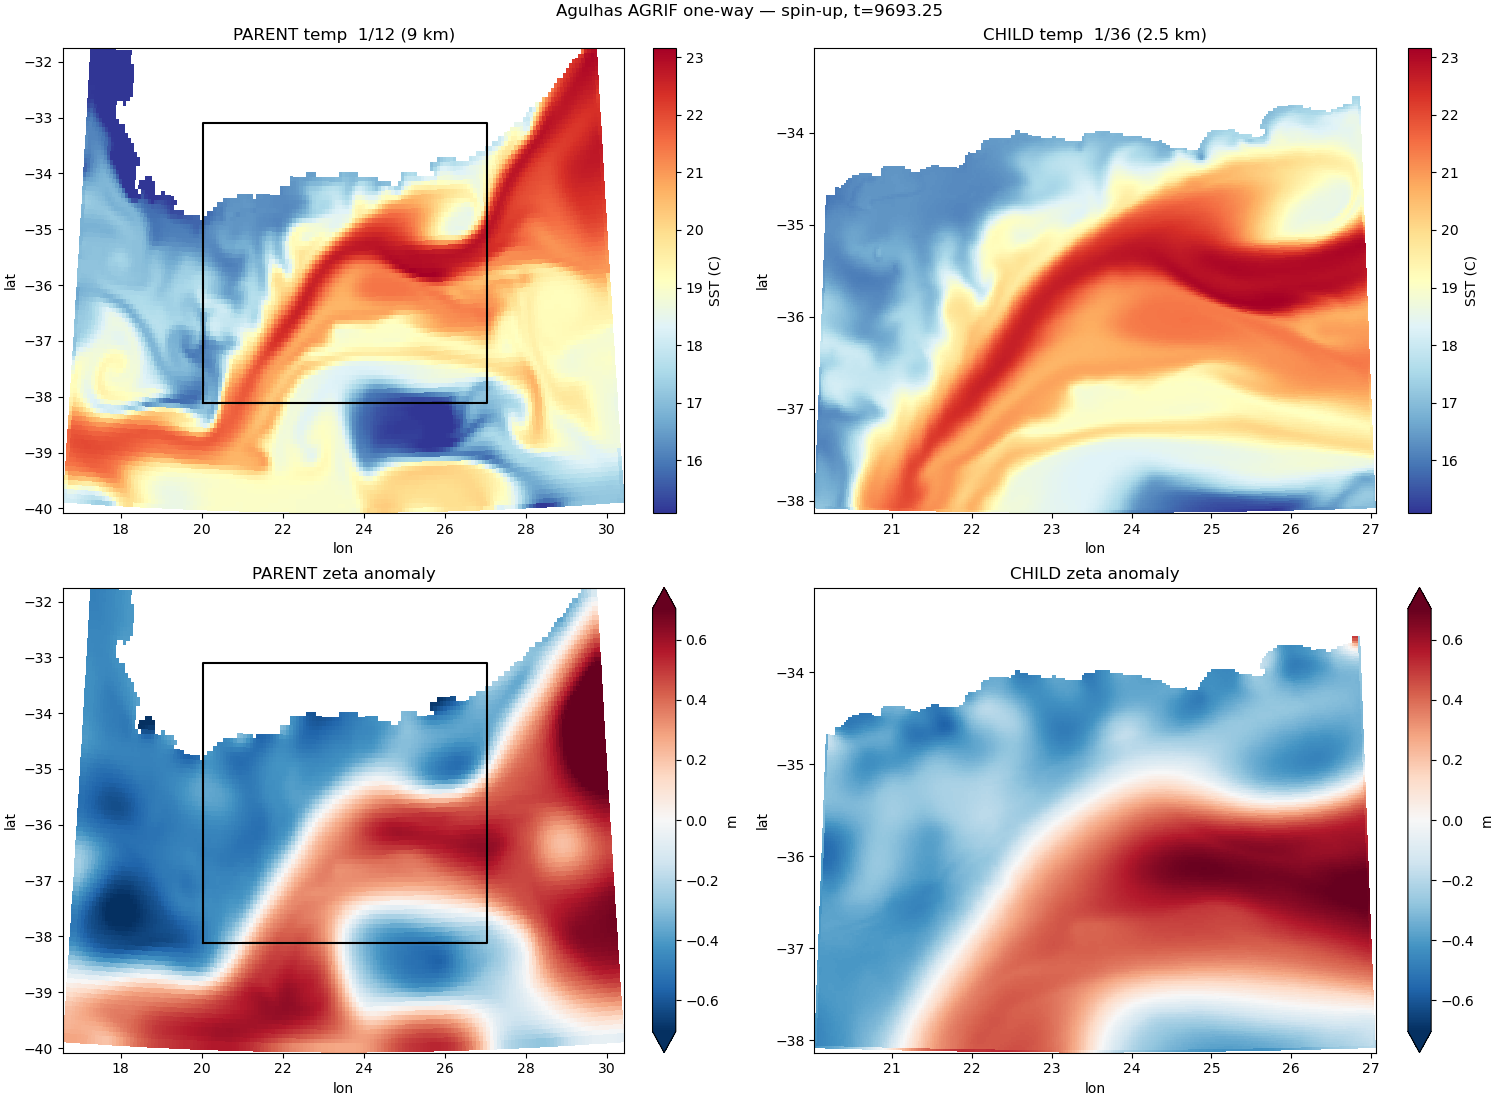
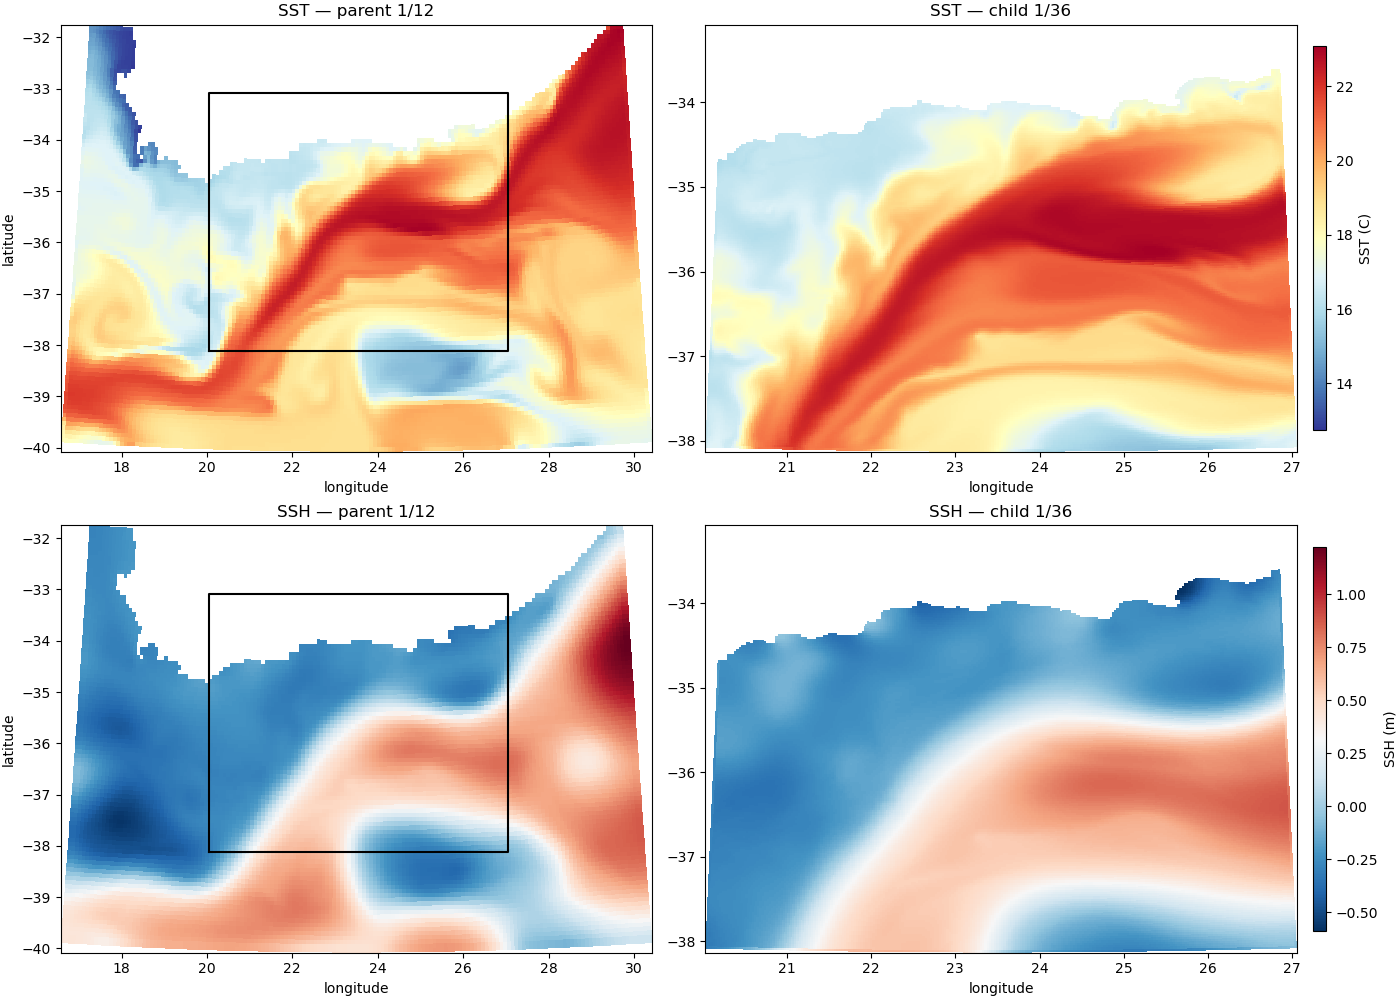
docs: Phase 9 checking — shared colour scales, plain SSH, tighter conclusions

diff --git a/docs/phase9/checking.md b/docs/phase9/checking.md
@@ -3,50 +3,88 @@ Once the driver's spin-up is producing output, the same comparison as A13 — bu
 
 ## Parent and child, side by side
 
-Copy the files first: reading a netCDF that CROCO is still writing gives you truncated
-records.
+Copy the files first if the run is still going — reading a netCDF mid-write can give
+you a truncated last record.
 
 ```bash
 D=~/seaforward/forecast/model-runs/Agulhas_AGRIF/20260717_1way/spinup/CROCO_FILES
 cp $D/croco_his.nc   /tmp/ag_p.nc
 cp $D/croco_his.nc.1 /tmp/ag_c.nc
 
-python3 -c "
+python3 << 'PYEOF'
 import xarray as xr
-for f,l in [('/tmp/ag_p.nc','parent'),('/tmp/ag_c.nc','child ')]:
+for f, l in [('/tmp/ag_p.nc', 'parent'), ('/tmp/ag_c.nc', 'child ')]:
     d = xr.open_dataset(f, decode_times=False)
     print(l, d.sizes['time'], 'records, t =',
-          [round(float(t)/86400,3) for t in d.scrum_time.values])
-"
+          [round(float(t)/86400, 3) for t in d.scrum_time.values])
+PYEOF
 ```
-```
+
+```text
 parent 6 records, t = [9692.0, 9692.25, 9692.5, 9692.75, 9693.0, 9693.25]
 child  6 records, t = [9692.0, 9692.25, 9692.5, 9692.75, 9693.0, 9693.25]
 ```
 
 **Six records each, at identical times.** That is the driver's `NWRT * COEF` scaling
-working. Without it you get 5 parent records and 13 child records for the same period,
-and every comparison needs interpolating.
+working. Without it the child writes three times as often as the parent, and every
+comparison needs interpolating.
+
+```bash
+cd ~/seaforward
+python3 << 'PYEOF'
+import matplotlib; matplotlib.use('Agg')
+import matplotlib.pyplot as plt, xarray as xr, numpy as np
+
+p = xr.open_dataset('/tmp/ag_p.nc', decode_times=False)
+c = xr.open_dataset('/tmp/ag_c.nc', decode_times=False)
+x0, x1 = float(c.lon_rho.min()), float(c.lon_rho.max())
+y0, y1 = float(c.lat_rho.min()), float(c.lat_rho.max())
+
+def fld(ds, v):
+    f = (ds.temp.isel(time=-1, s_rho=-1) if v == 'temp' else ds.zeta.isel(time=-1))
+    return f.where(ds.mask_rho == 1)
+
+fig, ax = plt.subplots(2, 2, figsize=(14, 10), constrained_layout=True)
+fig.get_layout_engine().set(w_pad=0.02, wspace=0.02)
+
+for row, (v, cmap, unit) in enumerate([('temp', 'RdYlBu_r', 'SST (C)'),
+                                       ('zeta', 'RdBu_r',   'SSH (m)')]):
+    fp, fc = fld(p, v), fld(c, v)
+    vmin = min(float(fp.min()), float(fc.min()))     # shared scale across the row
+    vmax = max(float(fp.max()), float(fc.max()))
+    for col, (ds, f, tag) in enumerate([(p, fp, 'parent 1/12'), (c, fc, 'child 1/36')]):
+        h = ax[row, col].pcolormesh(ds.lon_rho, ds.lat_rho, f,
+                                    cmap=cmap, vmin=vmin, vmax=vmax)
+        ax[row, col].set_title('%s — %s' % (unit.split()[0], tag))
+        ax[row, col].set_xlabel('longitude')
+    ax[row, 0].set_ylabel('latitude')
+    ax[row, 0].plot([x0, x1, x1, x0, x0], [y0, y0, y1, y1, y0], 'k-', lw=1.5)
+    fig.colorbar(h, ax=ax[row, :], label=unit, shrink=0.9, pad=0.01, aspect=30)
+
+fig.savefig('docs/img/agulhas_parent_child.png', dpi=100)
+PYEOF
+```
 
 ![Agulhas parent and child](../img/agulhas_parent_child.png)
 
-*Surface temperature and sea-surface height anomaly, both grids, 1.25 days into the spin-up. The box on the parent panels is the child's footprint.*
+*Surface temperature and sea-surface height, both grids, 1.25 days into the spin-up.
+The box on the parent panels is the child's footprint. Each row shares a colour scale,
+so the two panels are directly comparable.*
 
 Two things to read here:
-
 **Temperature** — same water masses, but the child resolves filaments the parent
 smooths: the frontal structure at 21–22°E, and the retroflection eddy at 25.5°E, 35°S.
 That is 2.5 km against 9 km, doing what it was built for.
 
 **Sea-surface height** — this is the one that tells you the nest is healthy. The zeta
-anomaly is a **smooth, coherent tongue following exactly where the warm current is**,
+field is a **smooth, coherent tongue following exactly where the warm current is**,
 high on the warm side, low on the cold side. That is the Agulhas in thermal-wind
 balance: a geostrophic jet tilts the sea surface across itself. **And the child matches
 the parent through the overlap** — same tongue, same position, same magnitude.
 
-Compare that against a nest that *isn't* healthy (Phase 8, worked example 2): blotchy
-±0.5 m lobes, no coherent structure, child disagreeing with parent in the same place.
-Zeta is where a bad nest confesses.
+A nest that isn't healthy looks quite different: blotchy ±0.5 m lobes, no coherent
+structure, child disagreeing with parent in the same place. Zeta is where a bad nest
+confesses.
 
 ## Against Mercator — and how to do it fairly
 
@@ -65,7 +103,7 @@ p = xr.open_dataset('/tmp/ag_p.nc', decode_times=False)
 c = xr.open_dataset('/tmp/ag_c.nc', decode_times=False)
 
 # nearest Mercator record -- find it, don't hardcode it
-t  = pd.Timestamp('%d-01-01'%YORIG) + pd.Timedelta(days=float(p.scrum_time[-1])/86400)
+t  = pd.Timestamp('%d-01-01' % YORIG) + pd.Timedelta(days=float(p.scrum_time[-1])/86400)
 dt = np.abs(m.time.values - np.datetime64(t)); k = int(dt.argmin())
 print('croco t = %s -> mercator idx %d (%s), offset %s' % (t, k, m.time.values[k], dt[k]))
 
@@ -74,12 +112,12 @@ zos_m = m.zos.isel(time=k)
 
 def cmp(ds, var, src, name):
     lo, la = ds.lon_rho.values, ds.lat_rho.values
-    f = (ds.temp.isel(time=-1, s_rho=-1) if var=='temp' else ds.zeta.isel(time=-1))
-    f = f.where(ds.mask_rho==1).values
-    mi = src.interp(longitude=xr.DataArray(lo,dims=['eta','xi']),
-                    latitude =xr.DataArray(la,dims=['eta','xi'])).values
-    mi = np.where(ds.mask_rho.values==1, mi, np.nan)
-    if var=='zeta':                  # CROCO zeta and Mercator zos have DIFFERENT
+    f = (ds.temp.isel(time=-1, s_rho=-1) if var == 'temp' else ds.zeta.isel(time=-1))
+    f = f.where(ds.mask_rho == 1).values
+    mi = src.interp(longitude=xr.DataArray(lo, dims=['eta','xi']),
+                    latitude =xr.DataArray(la, dims=['eta','xi'])).values
+    mi = np.where(ds.mask_rho.values == 1, mi, np.nan)
+    if var == 'zeta':                # CROCO zeta and Mercator zos have DIFFERENT
         f  = f  - np.nanmean(f)      # reference levels. Compare anomalies, or you
         mi = mi - np.nanmean(mi)     # are just measuring a constant offset.
     d = f - mi
@@ -89,21 +127,22 @@ def cmp(ds, var, src, name):
     return lo, la, f, mi, d, r
 
 for var, cmap, unit in [('temp','RdYlBu_r','SST (C)'), ('zeta','RdBu_r','SSH anom (m)')]:
-    src = sst_m if var=='temp' else zos_m
+    src = sst_m if var == 'temp' else zos_m
     P = cmp(p, var, src, 'parent'); C = cmp(c, var, src, 'child')
     vmin = min(np.nanmin(P[2]), np.nanmin(C[2])); vmax = max(np.nanmax(P[2]), np.nanmax(C[2]))
     ld = float(np.nanpercentile(np.abs(np.concatenate([P[4].ravel(), C[4].ravel()])), 99))
-    fig, ax = plt.subplots(2,3, figsize=(18,10), constrained_layout=True)
-    for row,(S,tag) in enumerate([(P,'PARENT 1/12'),(C,'CHILD 1/36')]):
-        lo,la,f,mi,d,r = S
-        a=ax[row,0].pcolormesh(lo,la,f, cmap=cmap,vmin=vmin,vmax=vmax)
-        ax[row,0].set_title('CROCO %s'%tag);  fig.colorbar(a,ax=ax[row,0],label=unit)
-        b=ax[row,1].pcolormesh(lo,la,mi,cmap=cmap,vmin=vmin,vmax=vmax)
-        ax[row,1].set_title('MERCATOR');      fig.colorbar(b,ax=ax[row,1],label=unit)
-        e=ax[row,2].pcolormesh(lo,la,d, cmap='PuOr_r',vmin=-ld,vmax=ld)
-        ax[row,2].set_title('minus MERCATOR  RMSE=%.4f'%r)
-        fig.colorbar(e,ax=ax[row,2],label=unit,extend='both')
-    for x in ax.ravel(): x.set_xlabel('lon'); x.set_ylabel('lat')
+    fig, ax = plt.subplots(2, 3, figsize=(18, 10), constrained_layout=True)
+    for row, (S, tag) in enumerate([(P, 'PARENT 1/12'), (C, 'CHILD 1/36')]):
+        lo, la, f, mi, d, r = S
+        a = ax[row,0].pcolormesh(lo, la, f, cmap=cmap, vmin=vmin, vmax=vmax)
+        ax[row,0].set_title('CROCO %s' % tag);  fig.colorbar(a, ax=ax[row,0], label=unit)
+        b = ax[row,1].pcolormesh(lo, la, mi, cmap=cmap, vmin=vmin, vmax=vmax)
+        ax[row,1].set_title('MERCATOR');        fig.colorbar(b, ax=ax[row,1], label=unit)
+        e = ax[row,2].pcolormesh(lo, la, d, cmap='PuOr_r', vmin=-ld, vmax=ld)
+        ax[row,2].set_title('minus MERCATOR  RMSE=%.4f' % r)
+        fig.colorbar(e, ax=ax[row,2], label=unit, extend='both')
+    for x in ax.ravel():
+        x.set_xlabel('lon'); x.set_ylabel('lat')
     fig.suptitle('Agulhas AGRIF %s vs Mercator  %s' % (var, t.date()))
     fig.savefig('docs/img/agulhas_agrif_%s_vs_merc.png' % var, dpi=100)
 PYEOF
@@ -112,30 +151,36 @@ PYEOF
 Note the printed offset: CROCO's last record is at **06:00** and Mercator is daily at
 **00:00**, so there is a 6-hour gap. Small, but state it rather than hide it.
 
+Note also the mean subtraction on `zeta`. CROCO's sea surface is measured from the
+model's own reference level and Mercator's from a different one, so comparing them
+directly measures a constant offset. Removing each field's mean compares the structure,
+which is what matters.
+
 ![Agulhas AGRIF temperature vs Mercator](../img/agulhas_agrif_temp_vs_merc.png)
 
 *Both grids against Mercator, surface temperature.*
 
-```
+```text
 parent RMSE = 0.2443     child RMSE = 0.2233
 ```
 
 The differences are **thin filaments tracing fronts**, not patches — front displacement,
-not magnitude error. Both panels run slightly **cool** (predominantly purple, ~0.1–0.2 °C),
-worth watching across the forecast but unremarkable 1.5 days into a spin-up.
+not magnitude error. Both panels run slightly **cool**, predominantly purple at about
+0.1–0.2 °C, worth watching across the forecast but unremarkable 1.5 days into a
+spin-up.
 
 ![Agulhas AGRIF SSH vs Mercator](../img/agulhas_agrif_zeta_vs_merc.png)
 
 *Both grids against Mercator, sea-surface height anomaly.*
 
-```
+```text
 parent RMSE = 0.0521     child RMSE = 0.0677
 ```
 
-### ⚠ Those numbers are not comparable, and the trap is worth understanding
+### Those numbers are not comparable, and the trap is worth understanding
 
-Read as-is, they say the child wins on temperature and loses on SSH. **Both readings are
-wrong**, because the two RMSEs are computed over **different water**.
+Read as they stand, they say the child wins on temperature and loses on SSH. **Both
+readings are wrong**, because the two RMSEs are computed over **different water**.
 
 The parent's covers the whole 17–30°E domain — mostly deep open ocean, where everything
 agrees. The child's covers only the Agulhas Bank: shallow shelf, steep break, the
@@ -156,24 +201,26 @@ c = xr.open_dataset('/tmp/ag_c.nc', decode_times=False)
 t = pd.Timestamp('2000-01-01') + pd.Timedelta(days=float(p.scrum_time[-1])/86400)
 k = int(np.abs(m.time.values - np.datetime64(t)).argmin())
 
-lo0,lo1 = float(c.lon_rho.min()), float(c.lon_rho.max())
-la0,la1 = float(c.lat_rho.min()), float(c.lat_rho.max())
+lo0, lo1 = float(c.lon_rho.min()), float(c.lon_rho.max())
+la0, la1 = float(c.lat_rho.min()), float(c.lat_rho.max())
 
 def rmse(ds, var, src, mask=None):
     lo, la = ds.lon_rho.values, ds.lat_rho.values
-    f = (ds.temp.isel(time=-1,s_rho=-1) if var=='temp' else ds.zeta.isel(time=-1))
-    f = f.where(ds.mask_rho==1).values
-    mi = src.interp(longitude=xr.DataArray(lo,dims=['eta','xi']),
-                    latitude =xr.DataArray(la,dims=['eta','xi'])).values
-    mi = np.where(ds.mask_rho.values==1, mi, np.nan)
-    if mask is not None: f = np.where(mask, f, np.nan); mi = np.where(mask, mi, np.nan)
-    if var=='zeta': f = f - np.nanmean(f); mi = mi - np.nanmean(mi)
-    return float(np.sqrt(np.nanmean((f-mi)**2)))
+    f = (ds.temp.isel(time=-1, s_rho=-1) if var == 'temp' else ds.zeta.isel(time=-1))
+    f = f.where(ds.mask_rho == 1).values
+    mi = src.interp(longitude=xr.DataArray(lo, dims=['eta','xi']),
+                    latitude =xr.DataArray(la, dims=['eta','xi'])).values
+    mi = np.where(ds.mask_rho.values == 1, mi, np.nan)
+    if mask is not None:
+        f = np.where(mask, f, np.nan); mi = np.where(mask, mi, np.nan)
+    if var == 'zeta':
+        f = f - np.nanmean(f); mi = mi - np.nanmean(mi)
+    return float(np.sqrt(np.nanmean((f - mi)**2)))
 
-inbox = ((p.lon_rho.values>=lo0)&(p.lon_rho.values<=lo1)&
-         (p.lat_rho.values>=la0)&(p.lat_rho.values<=la1))
+inbox = ((p.lon_rho.values >= lo0) & (p.lon_rho.values <= lo1) &
+         (p.lat_rho.values >= la0) & (p.lat_rho.values <= la1))
 print('parent cells inside the child box:', int(inbox.sum()))
-for var, src in [('temp', m.thetao.isel(time=k,depth=0)), ('zeta', m.zos.isel(time=k))]:
+for var, src in [('temp', m.thetao.isel(time=k, depth=0)), ('zeta', m.zos.isel(time=k))]:
     print('\n%s' % var.upper())
     print('  parent, WHOLE domain   RMSE = %.4f' % rmse(p, var, src))
     print('  parent, child box only RMSE = %.4f   <- the fair comparison' % rmse(p, var, src, inbox))
@@ -181,7 +228,7 @@ for var, src in [('temp', m.thetao.isel(time=k,depth=0)), ('zeta', m.zos.isel(ti
 PYEOF
 ```
 
-```
+```text
 parent cells inside the child box: 5177
 
 TEMP
@@ -199,38 +246,12 @@ The picture changes completely:
 
 - **Temperature: a dead heat.** The child's apparent 9% win was entirely the parent's
   score being diluted by easy deep water outside the box.
-- **SSH: the child is genuinely worse** over the same water — 0.0677 against 0.0514.
+- **SSH: the child is worse** over the same water — 0.0677 against 0.0514.
 
-### What that actually means
-
-Not that the nest is broken. Compare Phase 8's worked example 2, where the child was
-**4× worse** than its parent with blotchy ±0.5 m lobes. Here the child's SSH is
-geostrophically coherent and matches the parent's structure; it just differs from
-Mercator by a bit more.
-
-Two explanations, and this data cannot separate them:
-
-1. **The metric penalises the child for working.** Mercator is 1/12° — the same
-   resolution as the parent. Any structure the child resolves at 2.5 km is *invisible*
-   to the reference, so resolving it correctly registers as error. Judging a fine nest
-   against a coarse reference is asking whether it agrees with something that cannot see
-   what it is for.
-2. **Shelves are harder.** The child's SSH over the Agulhas Bank may simply not be right
-   yet.
-
-A pattern across three nests is suggestive:
-
-| child | setting | vs its parent (same water) |
-|---|---|---|
-| São Tomé | deep, all edges open ocean | **much better** (0.0042 vs 0.0141) |
-| IGOG coastal | shelf, marched edges | **much worse** (0.0559 vs 0.0139) |
-| Agulhas | shelf + steep break | **slightly worse** (0.0677 vs 0.0514) |
-
-Children over deep water beat their parents. Children over shelves don't — at least not
-by this metric, against this reference.
+Whether that means the child's SSH is wrong, or that a 1/12° reference cannot see what
+a 2.5 km grid resolves, this comparison cannot tell you.
 
 !!! note
-    **The honest limit of all of this.** Every comparison in this chapter is against Mercator, which supplied the initial and boundary conditions. It tests **consistency**, not skill, and it cannot resolve what the child exists to resolve. Real assessment needs independent, high-resolution data: along-track satellite altimetry, L2 SST, drifters, Argo. That is a different chapter.
+    **The honest limit of all of this.** Every comparison in this chapter is against Mercator, which supplied the initial and boundary conditions. It tests **consistency**, not skill. Real assessment needs independent, high-resolution data: along-track satellite altimetry, L2 SST, drifters, Argo. That is a different chapter.
 
-Both of these are also **1.5 days into a spin-up**. Redo them on the finished forecast
-before drawing conclusions.
+Both are from 1.5 days of spin-up. Redo them on the finished forecast.
